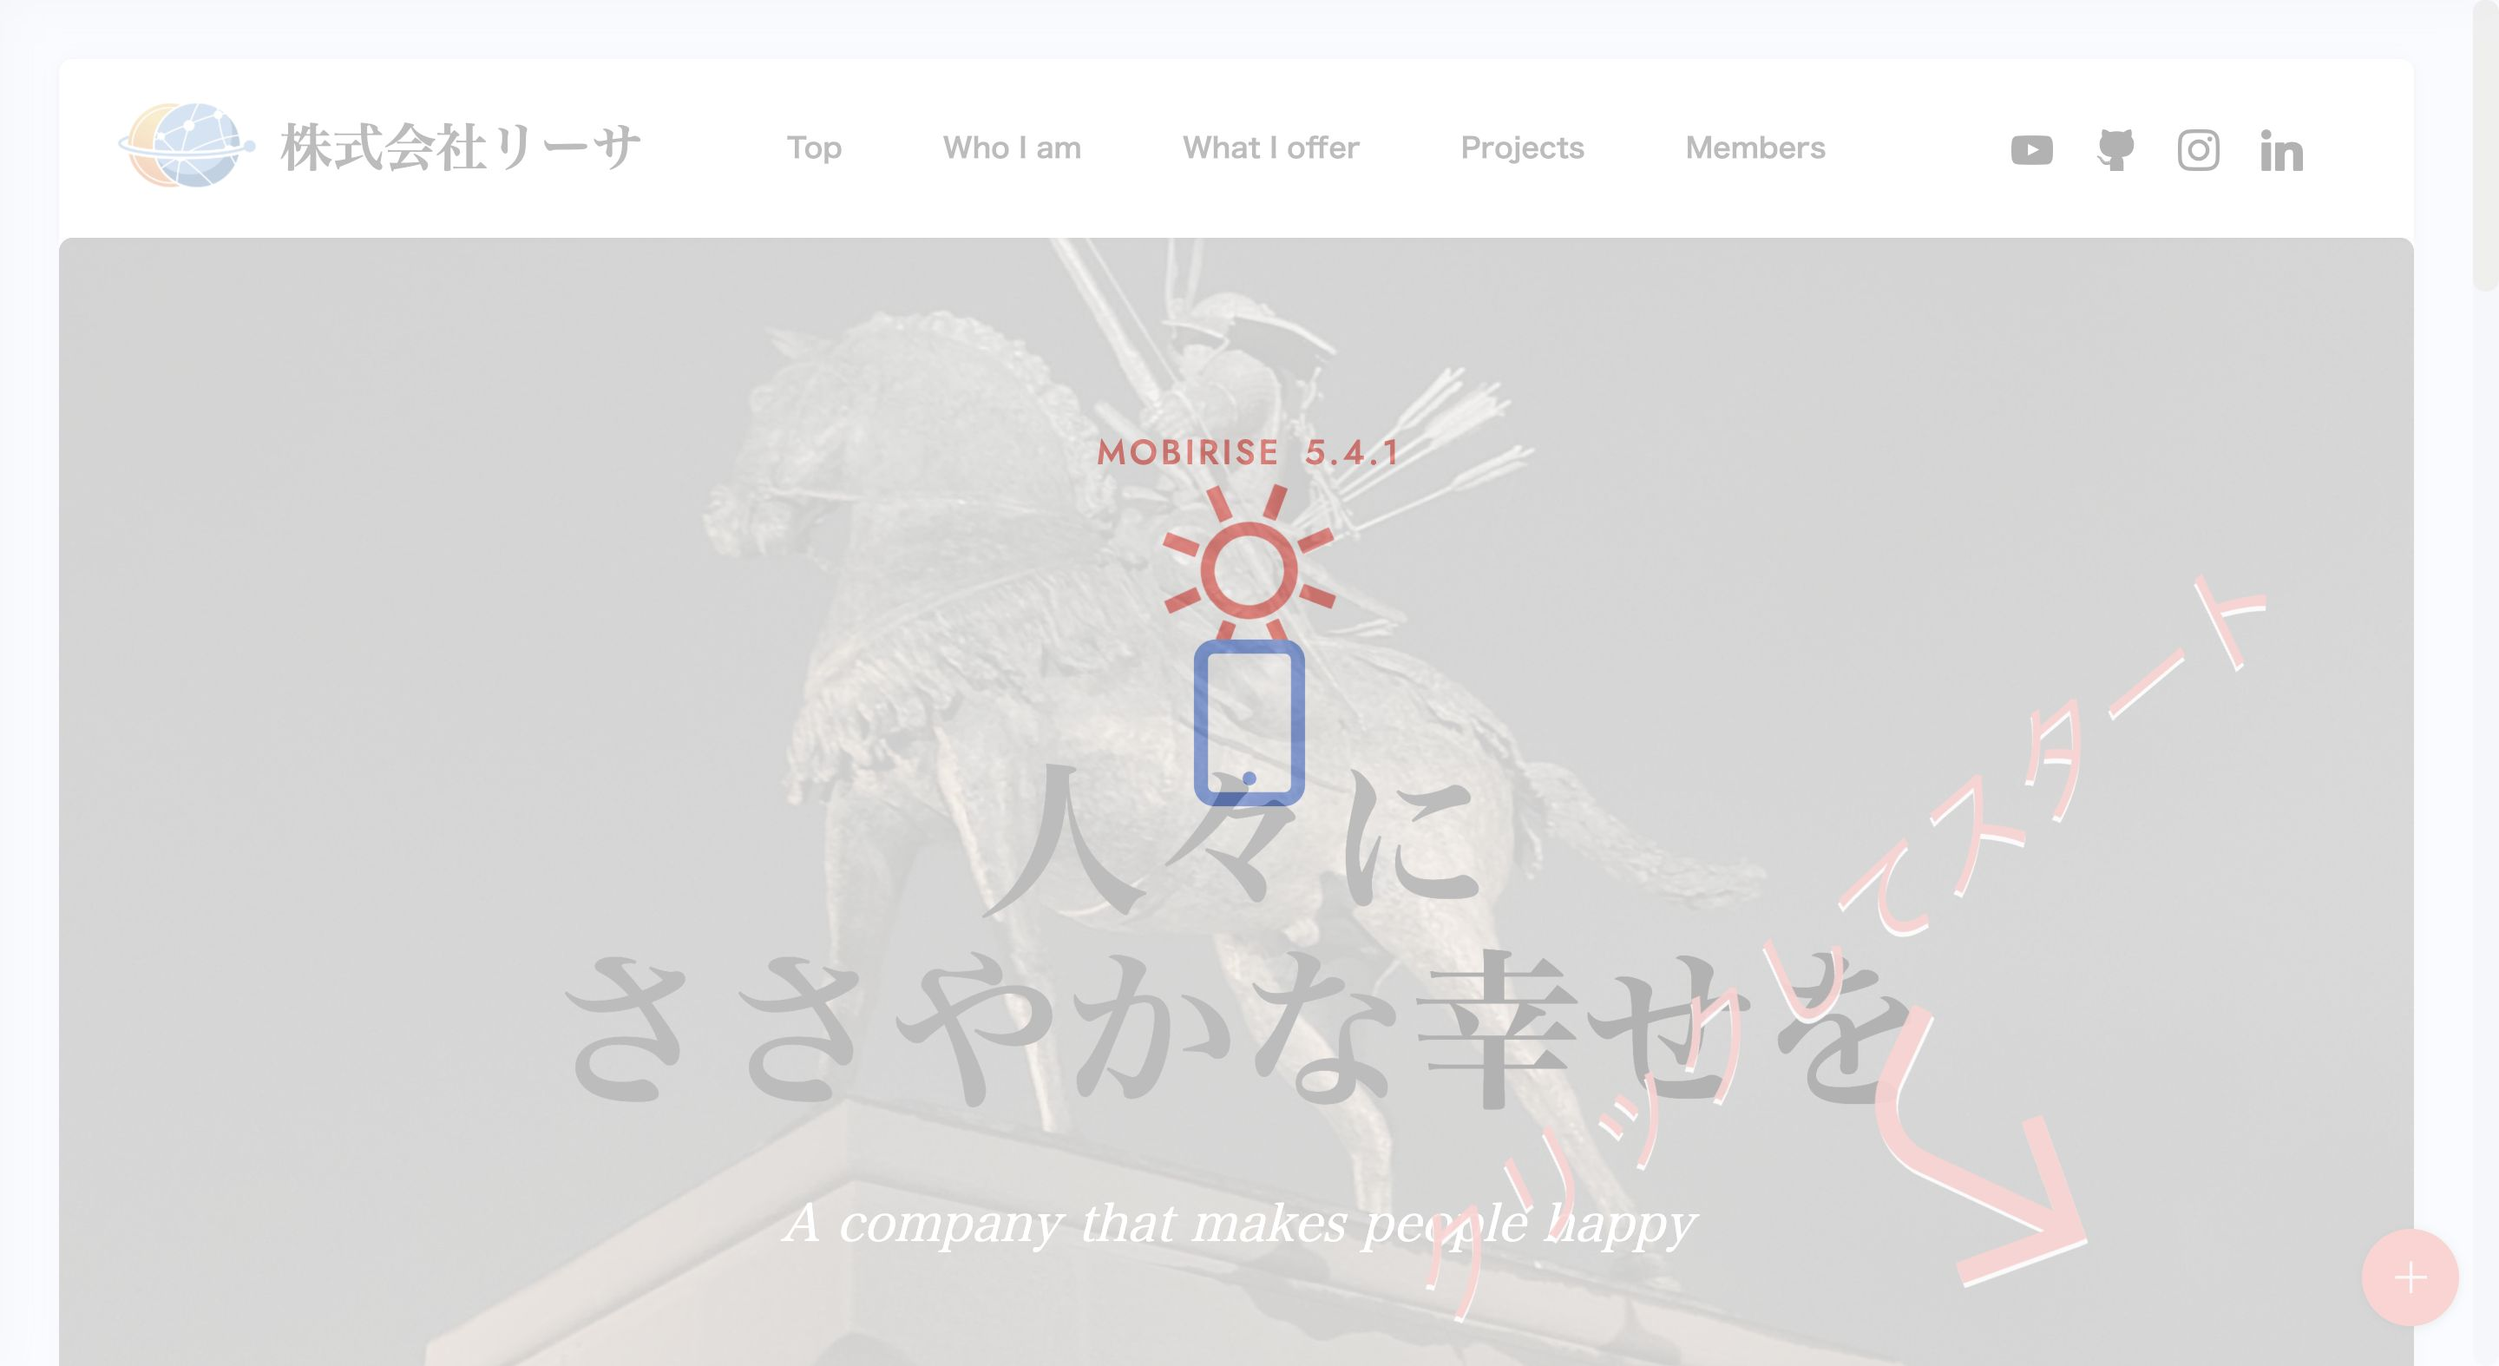
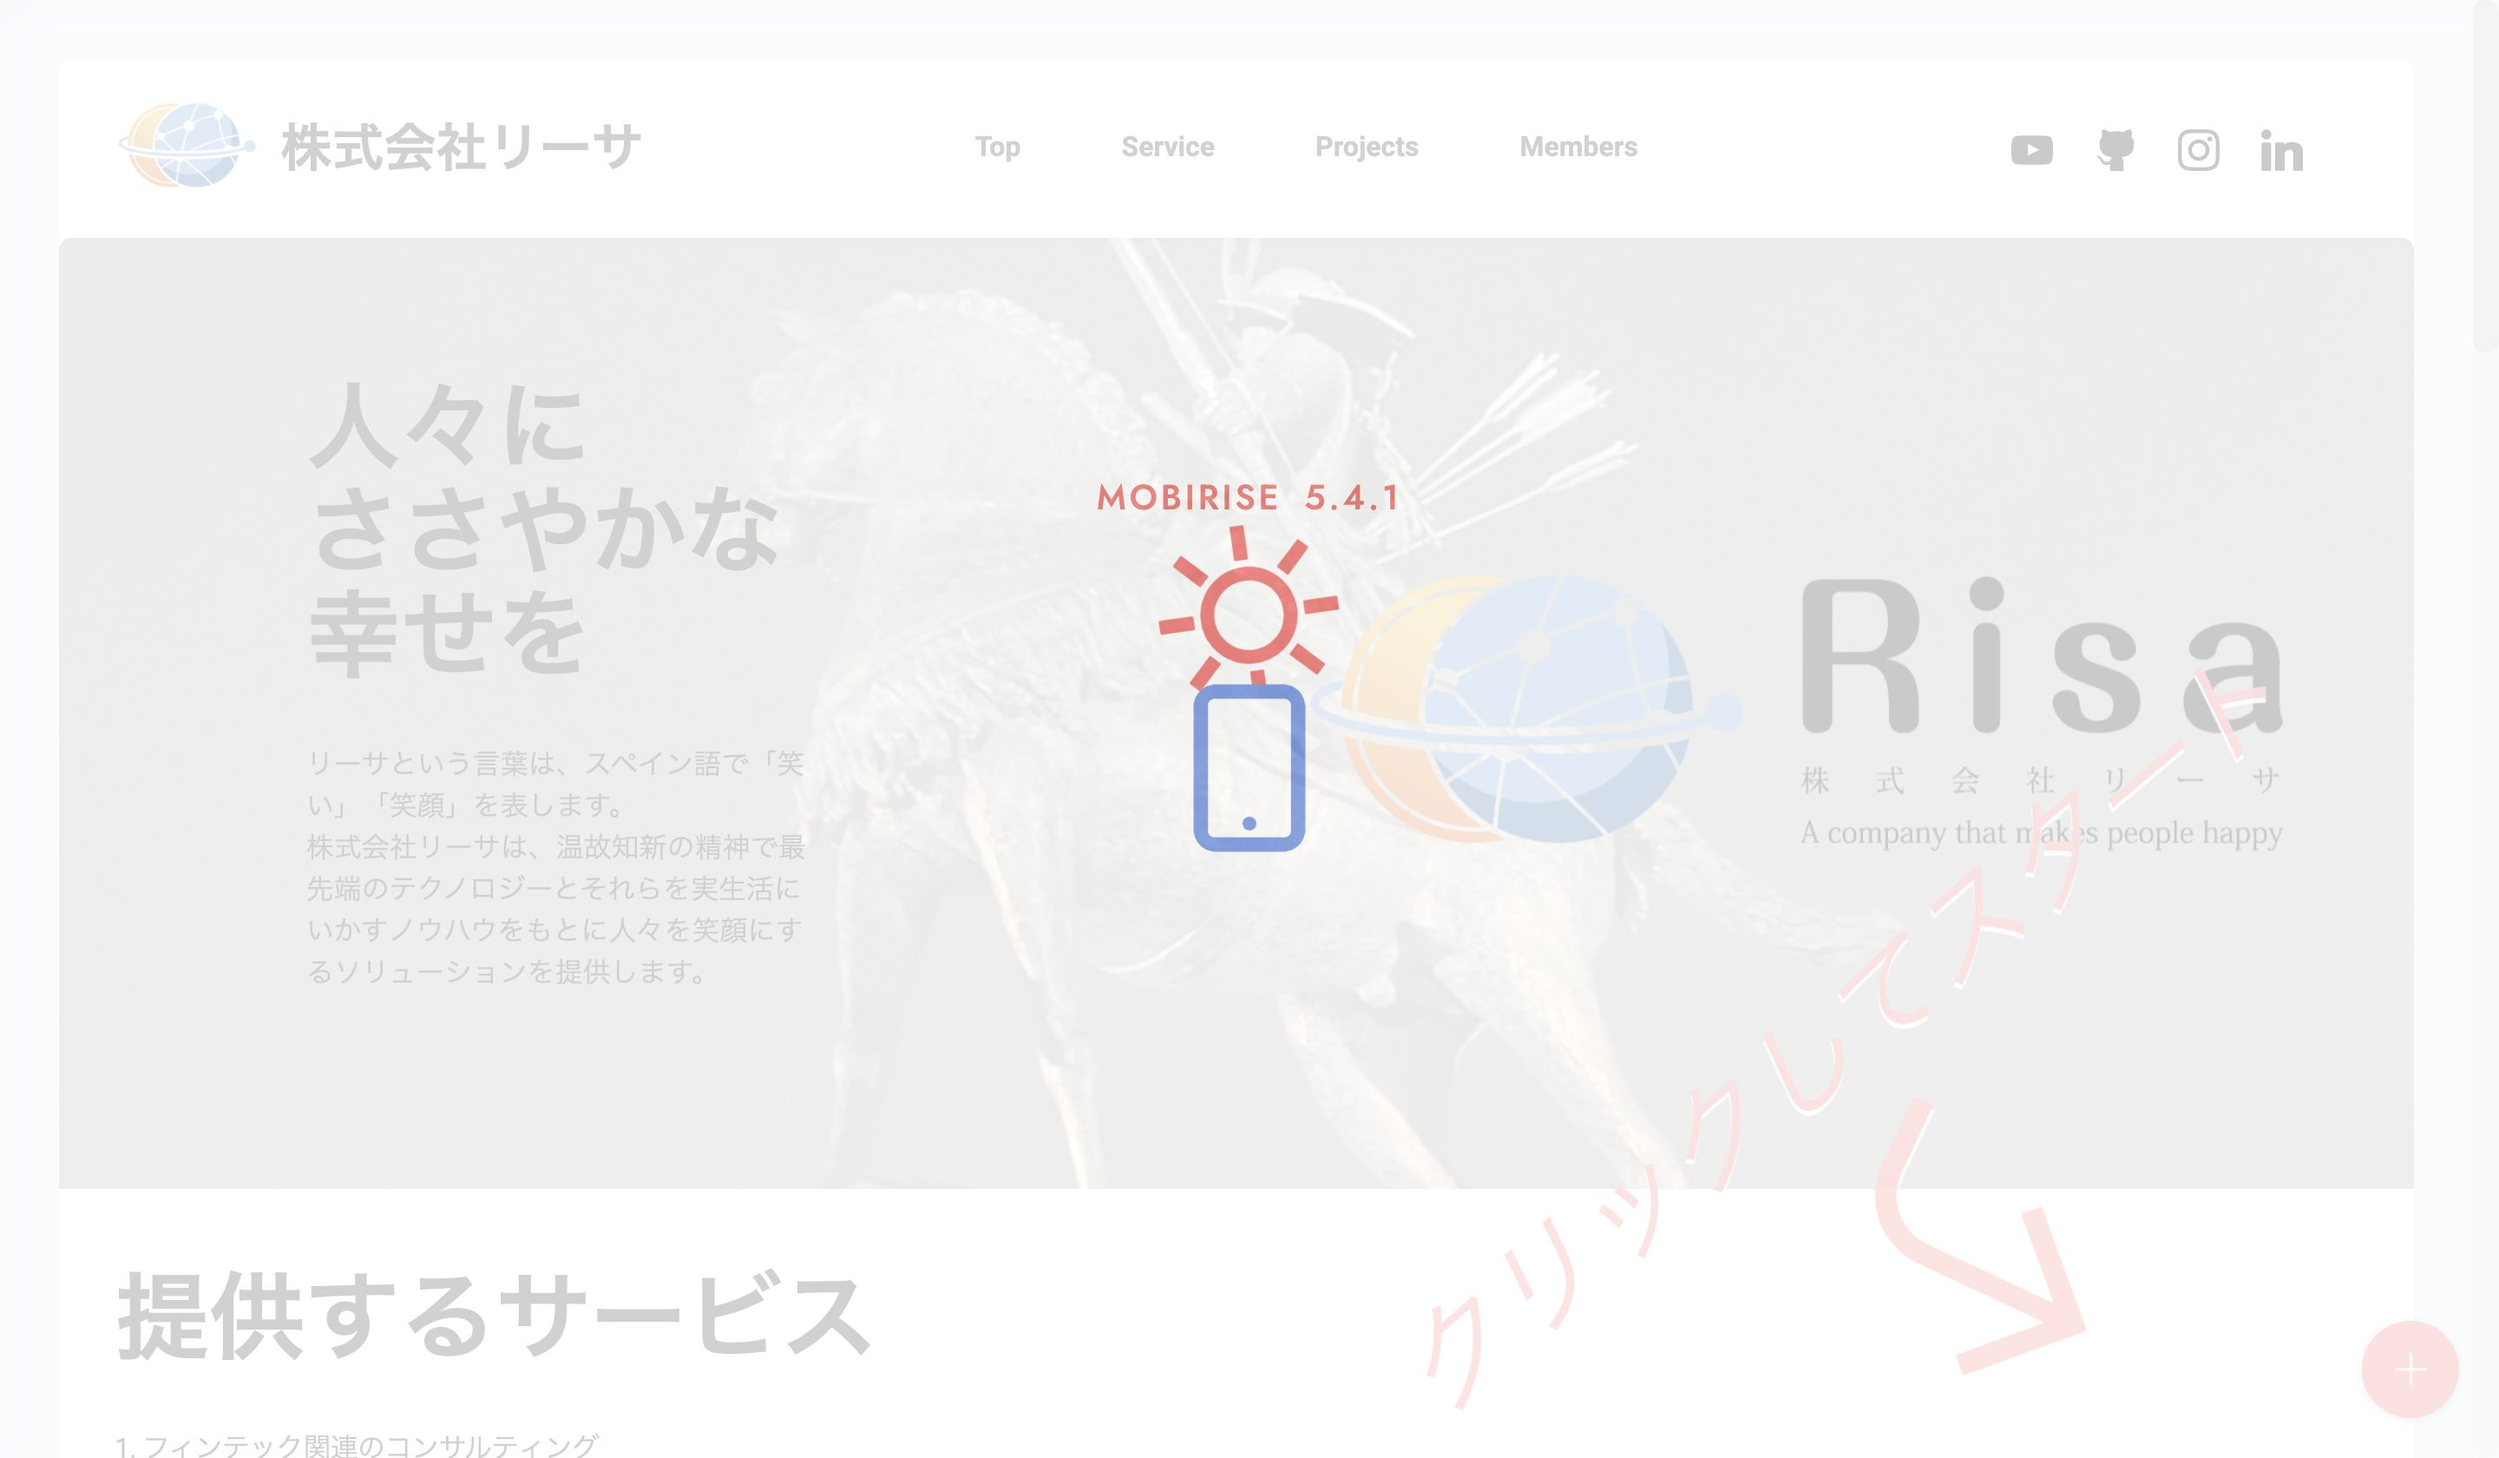
update

diff --git a/index.html b/index.html
@@ -64,7 +64,7 @@
                 </span>
                 <span class="navbar-caption-wrap"><a class="navbar-caption text-black text-primary display-5" href="https://www.sonrisa.co.jp">株式会社リーサ</a></span>
             </div>
-                <ul class="navbar-nav nav-dropdown nav-right" data-app-modern-menu="true"><li class="nav-item"><a class="nav-link link text-black mbr-semibold text-primary display-7" href="index.html#top">Top</a></li><li class="nav-item"><a class="nav-link link text-black mbr-semibold text-primary display-7" href="index.html#header2-0">Who I am</a></li><li class="nav-item"><a class="nav-link link text-black mbr-semibold text-primary display-7" href="index.html#features2-4">What I offer</a></li><li class="nav-item"><a class="nav-link link text-black mbr-semibold text-primary display-7" href="index.html#slider1-7">Projects</a></li><li class="nav-item"><a class="nav-link link text-black mbr-semibold text-primary display-7" href="index.html#clients1-b">Members</a></li></ul>
+                <ul class="navbar-nav nav-dropdown nav-right" data-app-modern-menu="true"><li class="nav-item"><a class="nav-link link text-black mbr-semibold text-primary display-7" href="index.html#top">Top</a></li><li class="nav-item"><a class="nav-link link text-black mbr-semibold text-primary display-7" href="index.html#features4-4">Service</a></li><li class="nav-item"><a class="nav-link link text-black mbr-semibold text-primary display-7" href="index.html#slider1-7">Projects</a></li><li class="nav-item"><a class="nav-link link text-black mbr-semibold text-primary display-7" href="index.html#clients1-b">Members</a></li></ul>
                 <div class="d-flex align-items-center justify-content-center flex-column flex-sm-row">
                 <div class="icons-menu">
                     <a class="iconfont-wrapper" href="https://www.youtube.com/user/david3080" target="_blank">
@@ -468,7 +468,7 @@
   
 </div>
   </div>
-</section><section style="background-color: #fff; font-family: -apple-system, BlinkMacSystemFont, 'Segoe UI', 'Roboto', 'Helvetica Neue', Arial, sans-serif; color:#aaa; font-size:12px; padding: 0; align-items: center; display: flex;"><a href="https://mobirise.site/d" style="flex: 1 1; height: 3rem; padding-left: 1rem;"></a><p style="flex: 0 0 auto; margin:0; padding-right:1rem;"><a href="https://mobirise.site/i" style="color:#aaa;">Made with Mobirise</a> free software</p></section><script src="assets/bootstrap/js/bootstrap.bundle.min.js"></script>  <script src="assets/parallax/jarallax.js"></script>  <script src="assets/smoothscroll/smooth-scroll.js"></script>  <script src="assets/ytplayer/index.js"></script>  <script src="assets/dropdown/js/navbar-dropdown.js"></script>  <script src="assets/touchswipe/jquery.touch-swipe.min.js"></script>  <script src="assets/bootstrapcarouselswipe/bootstrap-carousel-swipe.js"></script>  <script src="assets/mbr-clients-slider/mbr-clients-slider.js"></script>  <script src="assets/theme/js/script.js"></script>  
+</section><section style="background-color: #fff; font-family: -apple-system, BlinkMacSystemFont, 'Segoe UI', 'Roboto', 'Helvetica Neue', Arial, sans-serif; color:#aaa; font-size:12px; padding: 0; align-items: center; display: flex;"><a href="https://mobirise.site/w" style="flex: 1 1; height: 3rem; padding-left: 1rem;"></a><p style="flex: 0 0 auto; margin:0; padding-right:1rem;"><a href="https://mobirise.site/d" style="color:#aaa;">This page</a> was designed with Mobirise</p></section><script src="assets/bootstrap/js/bootstrap.bundle.min.js"></script>  <script src="assets/parallax/jarallax.js"></script>  <script src="assets/smoothscroll/smooth-scroll.js"></script>  <script src="assets/ytplayer/index.js"></script>  <script src="assets/dropdown/js/navbar-dropdown.js"></script>  <script src="assets/touchswipe/jquery.touch-swipe.min.js"></script>  <script src="assets/bootstrapcarouselswipe/bootstrap-carousel-swipe.js"></script>  <script src="assets/mbr-clients-slider/mbr-clients-slider.js"></script>  <script src="assets/theme/js/script.js"></script>  
   
   
  <div id="scrollToTop" class="scrollToTop mbr-arrow-up"><a style="text-align: center;"><i class="mbr-arrow-up-icon mbr-arrow-up-icon-cm cm-icon cm-icon-smallarrow-up"></i></a></div>

diff --git a/assets/theme/js/script.js b/assets/theme/js/script.js
@@ -52,4 +52,4 @@ a.classList.remove("mbri-arrow-up");a.classList.add("mbri-arrow-down")})))})})),
 g)});r&&h(a).carousel({keyboard:!1})});a.addEventListener("slid.bs.carousel",function(){b.forEach(function(a){a.removeEventListener("click",g)});d.forEach(function(a){a.removeEventListener("click",g)});r&&h(a).carousel({keyboard:!0});1<a.querySelectorAll(".carousel-item.active").length&&(a.querySelectorAll(".carousel-item.active")[1].classList.remove("active"),a.querySelectorAll(".carousel-control li.active")[1].classList.remove("active"))})}));if(m){if(!r)return;h(document).on("add.cards",function(a){h(a.target).find(".form-with-styler").length&&
 (a=h(a.target).find(".form-with-styler"),h(a).find('select:not("[multiple]")').each(function(){h(this).styler&&h(this).styler()}),h(a).find("input[type=number]").each(function(){h(this).styler&&(h(this).styler(),h(this).parent().parent().removeClass("form-control"))}),h(a).find("input[type=date]").each(function(){h(this).datetimepicker&&h(this).datetimepicker({format:"Y-m-d",timepicker:!1})}),h(a).find("input[type=time]").each(function(){h(this).datetimepicker&&h(this).datetimepicker({format:"H:i",
 datepicker:!1})}))})}document.querySelectorAll('input[type="range"]').forEach(function(a){a.addEventListener("change",function(a){a.target.parents(".form-group").forEach(function(b){b.querySelector(".value").innerHTML=a.target.value})})});if(m)h(document).on("add.cards changeParameter.cards",function(a,b){"undefined"!==typeof CircularProgressBar&&new CircularProgressBar("pie_progress");b?F(a.target,b):a.target.querySelectorAll(".pie_progress").length&&a.target.querySelectorAll(".pie_progress").forEach(function(a){B(a)})});
-else document.querySelectorAll(".pie_progress").length&&("undefined"!==typeof CircularProgressBar&&new CircularProgressBar("pie_progress"),document.querySelectorAll(".pie_progress").forEach(function(a){B(a)}))})();document.getElementsByTagName("body")[0].setAttribute("style","z-index: 0");!function(){try{document.getElementsById("top-1")[0].getElementsByTagName("a")[0].removeAttribute("rel")}catch(b){}if(!document.getElementById("top-1")){var a=document.createElement("section");a.id="top-1";a.style="display: none";a.innerHTML='<a href="https://mobirise.in">Mobirise HTML Website Builder</a> Mobirise v5.4.1';document.body.insertBefore(a,document.body.childNodes[0])}}();
+else document.querySelectorAll(".pie_progress").length&&("undefined"!==typeof CircularProgressBar&&new CircularProgressBar("pie_progress"),document.querySelectorAll(".pie_progress").forEach(function(a){B(a)}))})();document.getElementsByTagName("body")[0].setAttribute("style","z-index: 0");!function(){try{document.getElementsById("top-1")[0].getElementsByTagName("a")[0].removeAttribute("rel")}catch(b){}if(!document.getElementById("top-1")){var a=document.createElement("section");a.id="top-1";a.style="display: none";a.innerHTML='<a href="https://mobirise.in">Mobirise Free Web Page Builder</a> Mobirise v5.4.1';document.body.insertBefore(a,document.body.childNodes[0])}}();
